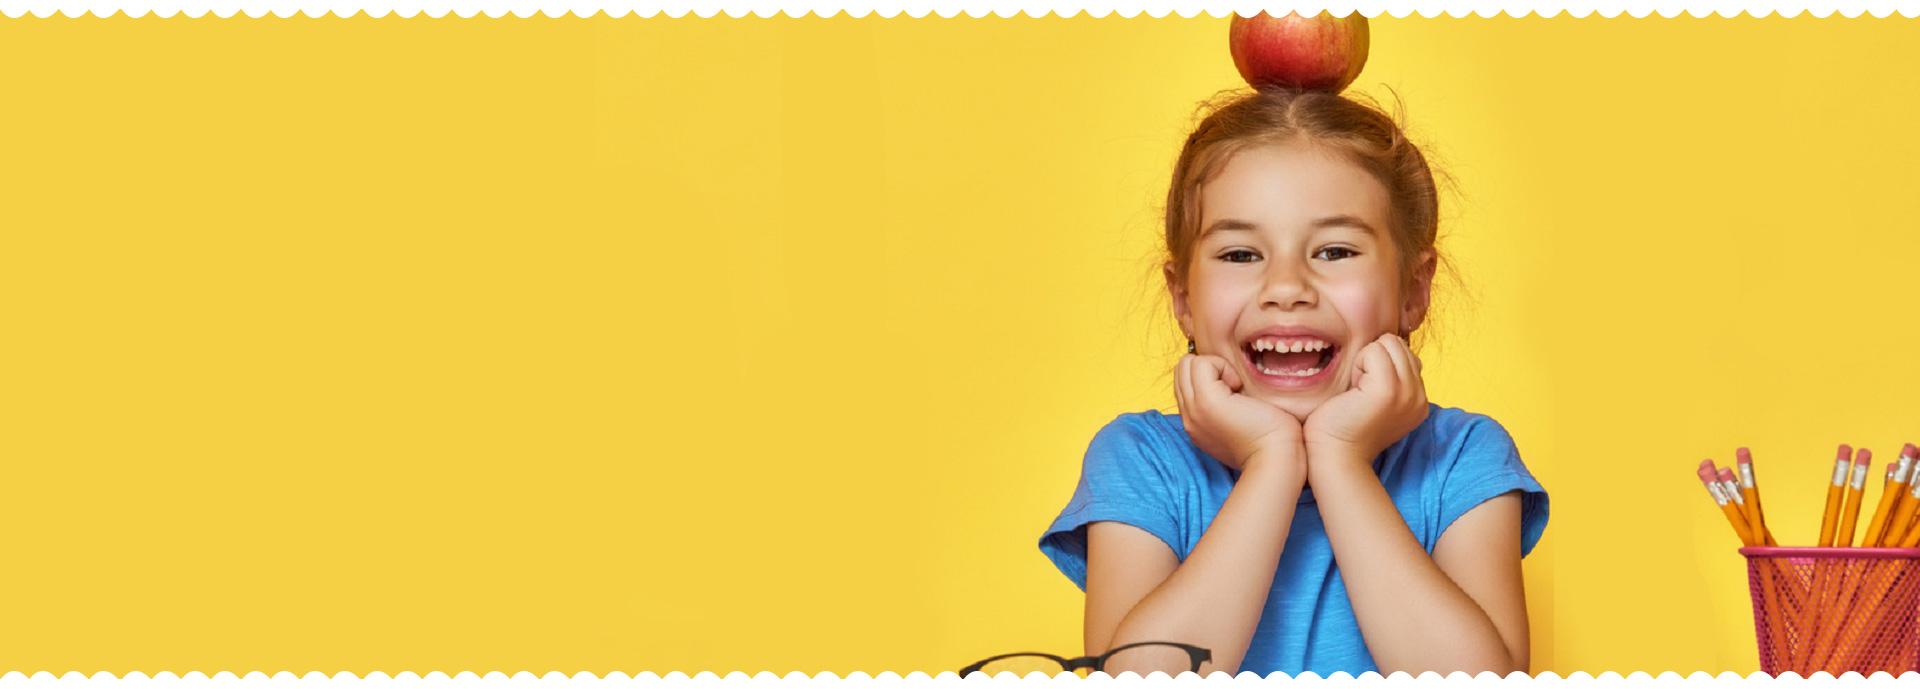
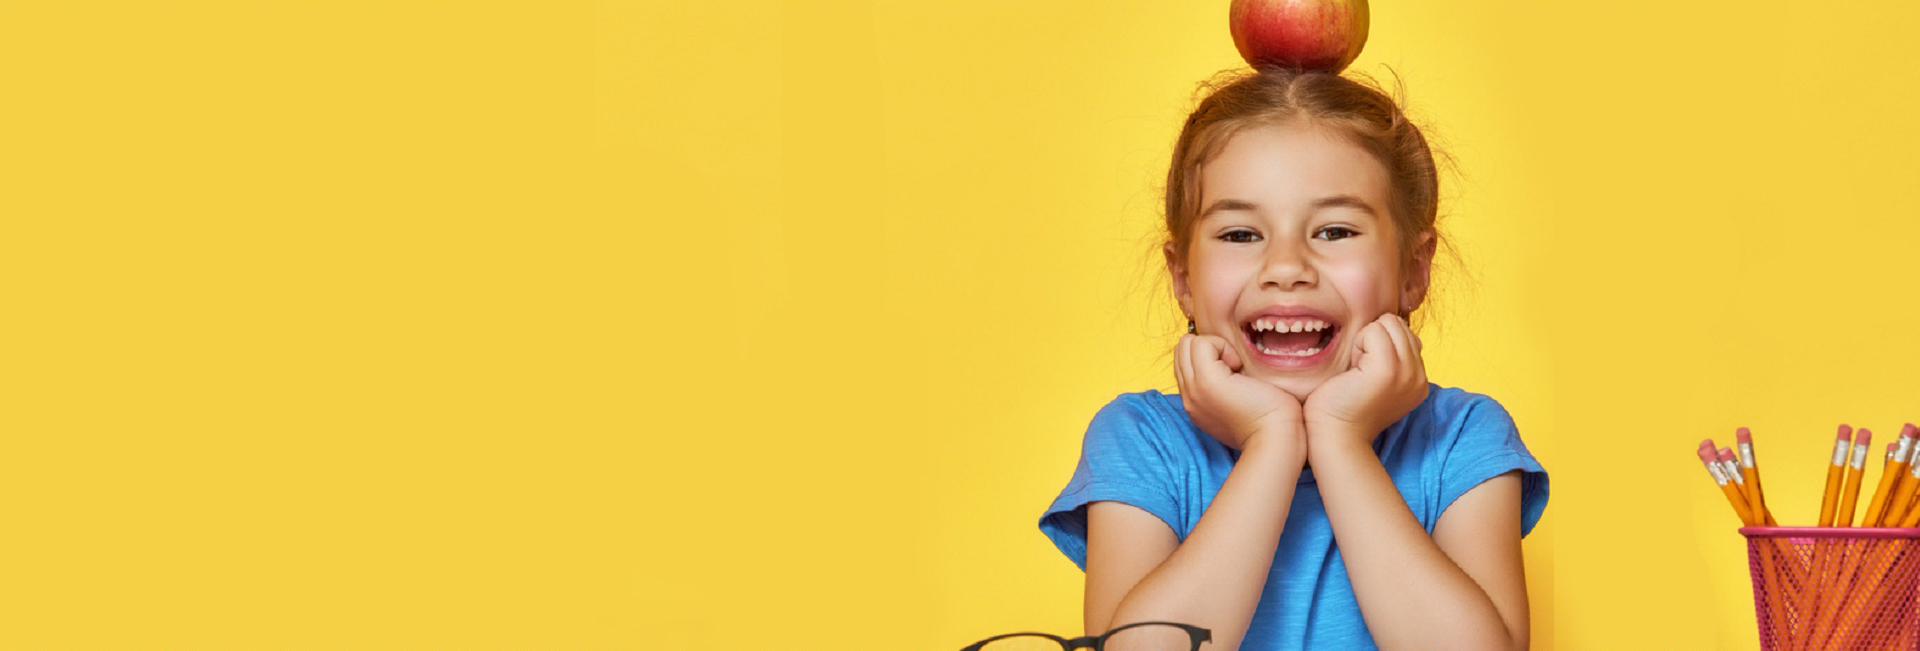
add bright-future section

diff --git a/src/styles/main.css b/src/styles/main.css
@@ -1,5 +1,6 @@
 :root {
     --main-color: #ef7084;
+    --main-color-dark: #e92d49;
     --secondary-color: #0052b7;
     --gray-color: #a2a2a2;
     --black-color: #4b4b4b;
@@ -14,7 +15,9 @@
     list-style: none;
     scroll-behavior: smooth
 }
-
+img{
+    max-width: 100%;
+}
 .container {
     padding: 0px 15px;
     margin: 0px auto;
@@ -45,6 +48,7 @@ header{
     background-color: var(--secondary-color);
     color: white;
     padding-block: 20px;
+    height: 60px;
 }
 header .container {
     display: flex;
@@ -73,12 +77,15 @@ header .container section:last-of-type p {
 nav{
     /* position: fixed; */
     width: 100%;
-    padding-block: 20px;
     box-shadow: 1px 4px 7px 2px #e9e9e9;
+    height: 90px;
+    display: flex;
+    align-items: center;
 }
 nav .container {
     display: flex;
     justify-content: space-between;
+    align-items: center;
 }
 nav section {
     display: flex;
@@ -93,6 +100,7 @@ nav ul{
 }
 nav ul a {
     color: black;
+    font-size: 18px;
 }
 nav ul li a:hover, nav ul .active{
     color: var(--main-color);
@@ -111,9 +119,92 @@ button{
 
 }
 nav button:hover{
-    background-color: var(--secondary-color);
+    background-color: var(--main-color-dark);
 }
 
+/* .landing-page */
 .landing-page{
     background-image: url(../assets/images/LandingPhoto.jpg);
+    height: calc(100vh - 90px - 60px );
+    background-size: cover;
+    background-repeat: no-repeat;
+    background-position: 50% 50%;
+    display: flex;
+    align-items: center;
+    font-size: 53px;
+    color: white;
+}
+.landing-page p:first-of-type{
+    color:var(--secondary-color) ;
+}
+.landing-page p:first-of-type span{
+color: white;
+}
+.landing-page p:nth-child(2) span{
+color: #f1154e;
+}
+.landing-page p:nth-child(3) {
+color: #bc22b3;
+}
+.landing-page p:last-of-type {
+font-size: 20px;
+display: flex;
+gap: 80px;
+align-items: center;
+}
+.landing-page p:last-of-type button {
+background-color: black;
+padding-inline: 30px;
+display: flex;
+align-items: center;
+gap: 10px;
+font-size: 18px;
+}
+.landing-page p:last-of-type button:hover {
+    background-color:var(--black-color); ;
+}
+
+/* kids-future */
+.bright-future{
+    padding-top: 50px;
+    position: relative;
+    overflow: hidden;
+    background-repeat: no-repeat;
+    background-image: url(../assets/images/wave-haikei\ \(2\).svg);
+    background-size: cover;
+    background-position: 50% 50%;
+}
+.bright-future .container {
+    display: flex;
+    flex-direction: column;
+    gap: 30px;
+    align-items: center;
+    text-align: center;
+}
+.bright-future .container p {
+    color: var(--gray-color);
+    font-size: 20px;
+}
+.bright-future .container h2{
+    font-size: 45px;
+    width: 500px;
+    font-weight: 100;
+}
+.bright-future .container .content{
+    display: flex;
+    gap: 50px;
+    align-items: center;
+}
+.bright-future .container .content img{
+    width: 400px;
+    border-radius:1px;
+}
+
+.bright-future .container .content p{
+    line-height: 2;
+    text-align: left;
+    margin-block: 40px;
+}
+.bright-future .container .content button:hover{
+    background-color: var(--main-color-dark);
 }

diff --git a/index.html b/index.html
@@ -70,6 +70,28 @@
 
     </section>
 </main>
+<section class="bright-future">
+    <div class="container">
+        <p>
+            Join our Journey of dicovery
+        </p>
+        <h2>
+            WELCOME TO THE <span>BRIGHT FUTURE</span>  OF KIDS
+        </h2>
+        <div class="content">
+            <div class="text">
+
+                <p>
+                    Lorem ipsum dolor sit amet consectetur adipisicing elit. Explicabo sequi quas doloremque exercitationem voluptates minus, saepe nobis reiciendis est! Odio, doloremque laboriosam sit totam nesciunt esse obcaecati facilis delectus iure.
+                </p>
+                <button >
+                    View Location
+                </button>
+            </div>
+            <img src="./src/assets/images/courses-photo.webp" alt="kids-future">
+        </div>
+    </div>
+</section>
 <script src="/src/js/all.min.js"></script>
 </body>
 </html>
